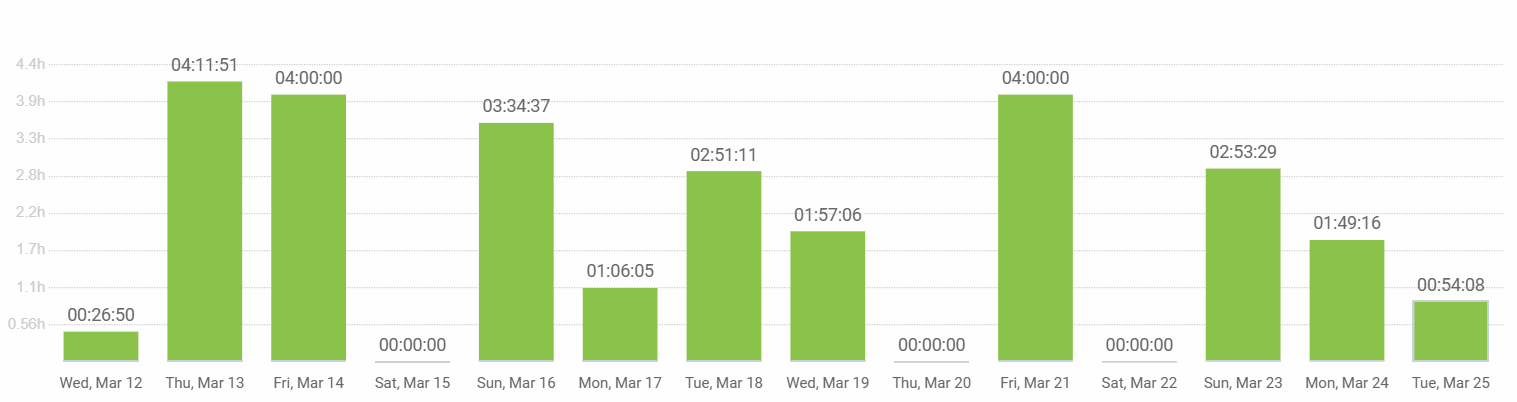
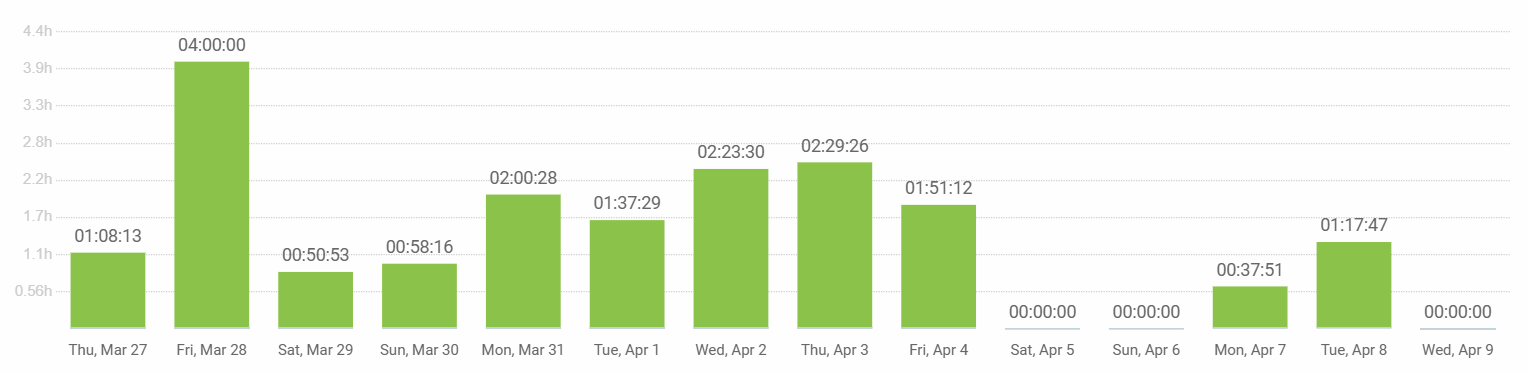
docs(timeReport): timeReport sprint 3 mancasvel

diff --git a/docs/Sprint_3/timeEffortReport.md b/docs/Sprint_3/timeEffortReport.md
@@ -173,26 +173,21 @@
 
 ## Reporte de tiempo de Manuel Castillejo Vela
 
-**Periodo:** 12/03/2025 - 25/03/2025
-**Total de tiempo trabajado:** 27:44:33
+**Periodo:** 27/03/2025 - 09/04/2025
+**Total de tiempo trabajado:** 19:15:05
 
 ### Proyecto Pawtel - Distribución del tiempo
-
-| Description                                                   | Time (h)  |
-|---------------------------------------------------------------|-----------|
-| #181 Feature: Hotel owner queries Tan Stack                 | 00:22:00  |
-| Mensajes CRUD creación hoteles                              | 00:54:36  |
-| KBReport                                                    | 00:51:33  |
-| #158 Feature: Validación de formularios con librerías.     | 07:07:27  |
-| Clase                                                       | 08:00:00  |
-| #205 Feature: Actualizar queries de Tan Stack con nuevas URLs | 03:29:51  |
-| #225 Feature: Mejorar funcionalidad Hotel Details          | 00:54:08  |
-| Añadir mensajes de error al frontend y botones de login y register | 03:17:15  |
-| Informe de IA                                              | 00:26:50  |
-| Adición de feedback a la base de datos común               | 02:06:45  |
-| Calendario de usuarios pilotos sprint 2                    | 00:14:08  |
-
-
+| Description                                           | Time (h) |
+|-------------------------------------------------------|----------|
+| KBReport                                              | 00:51:49 |
+| Reunion semanal                                       | 00:41:14 |
+| Clase                                                 | 04:00:00 |
+| #271 Feature: Cover imagenes                          | 02:16:02 |
+| SLA agreement y pricing                               | 01:08:13 |
+| Informe de IA                                         | 00:25:58 |
+| #276 Actualización cambios en tiempo real edit hotel | 00:35:00 |
+| Adicion de feedback a la base de datos comun         | 00:47:30 |
+| #237 Feature: Funcionamiento imagenes Frontend       | 08:29:19 |
 ![grafico-de-tiempos](graficas/manuel.png)
 ---
 
